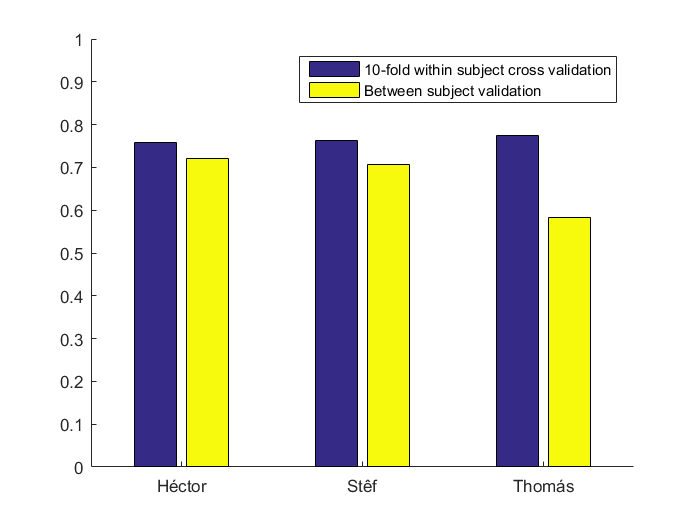
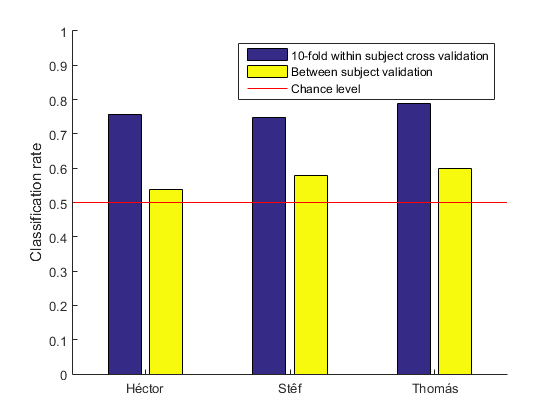
updated crossvalidation and created new image

Changed region(s): [[0.0304, 0.0619, 0.9107, 0.9595], [0.5768, 0.4643, 0.6071, 0.4952], [0.425, 0.4643, 0.4554, 0.4952]]

diff --git a/new_data.m b/new_data.m
@@ -1,10 +1,12 @@
 clear all; close all; clc;
-load('Hector_data.mat');
+load('Data_Thomas_TRAIN.mat');
 %%
 trials = cellfun(@(c) str2double(c),windows(:,3));
 remain = windows(trials<50,:);
 remain(:,3) = num2cell(trials(trials<50));
+% remain(:,4) = num2cell(trials(trials<50));
 remain(:,2) = num2cell(cellfun(@(c) str2double(c),remain(:,2)));
+remain(:,4) = num2cell(cellfun(@(c) str2double(c),remain(:,4)));
 
 l = cell2mat(remain(:,2));
 sessions = cell2mat(remain(:,3));
